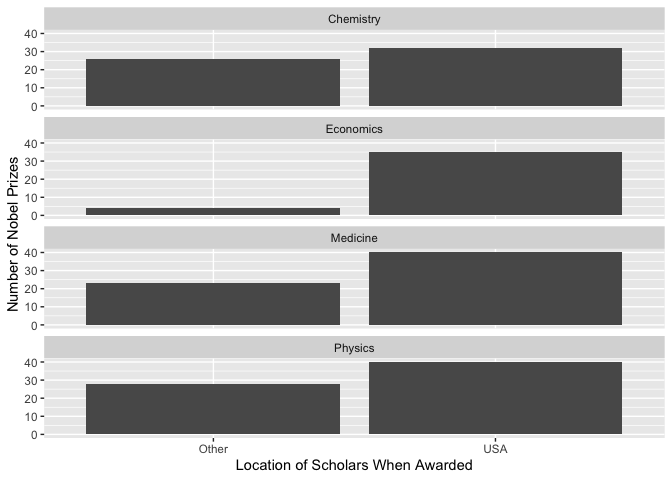
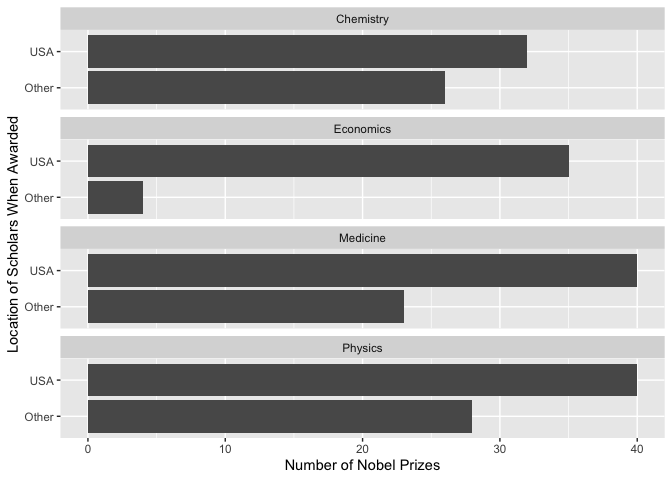
edited + finalized work

diff --git a/lab-03.md b/lab-03.md
@@ -35,12 +35,12 @@ nobel_living <- nobel_copy %>% filter(
   gender != "org"
   )
 
-View(nobel_living)
+view(nobel_living)
 ```
 
-Down to 228 observations after filtering for laureates who are still
-alive, have available information on country, and who are people (not
-organizations)
+The new dataset contains 228 observations after filtering for laureates
+who are still alive, have available information on ‘country’, and who
+are people (not organizations).
 
 ``` r
 nobel_living <- nobel_living %>%
@@ -62,25 +62,26 @@ ggplot(data = nobel_living_science, aes(x = country_us)) +
 labs(x = "Location of Scholars When Awarded",
        y = "Number of Nobel Prizes",
      ) +
-facet_wrap(~ category, nrow = 4)
+facet_wrap(~ category, nrow = 4) +
+  coord_flip()
 ```
 
 ![](lab-03_files/figure-gfm/bar-plot-1.png)<!-- -->
 
-The plots seem to support the claim in the Buzzfeed article. In each
-category, there is a higher number of Nobel prizes awarded to scholars
-in the US than in other countries. The difference is especially stark
-for prizes in economics.
+The plots support the claim in the Buzzfeed article. In each category,
+there is a higher number of Nobel prizes awarded to scholars in the US
+than in other countries. The difference is especially stark for prizes
+in economics.
 
 ### Exercise 4
 
 ``` r
-nobel_living_science_born_us <- nobel_living_science %>%
+nobel_living_science <- nobel_living_science %>%
   mutate(
     born_country_us = if_else(born_country == "USA", "USA", "Other")
   )
 
-nobel_living_science_born_us %>%
+nobel_living_science %>%
   count(born_country_us, sort = TRUE)
 ```
 
@@ -95,14 +96,15 @@ nobel_living_science_born_us %>%
 ### Exercise 5
 
 ``` r
-ggplot(data = nobel_living_science_born_us, aes(x = country_us,
+ggplot(data = nobel_living_science, aes(x = country_us,
                                                 fill = born_country_us)) +
   geom_bar() +
 labs(x = "Location of Scholars When Awarded",
        y = "Number of Nobel Prizes",
      fill = "Birth Country"
      ) +
-facet_wrap(~ category, nrow = 4) 
+facet_wrap(~ category, nrow = 4) +
+coord_flip()
 ```
 
 ![](lab-03_files/figure-gfm/bar-plot-2-1.png)<!-- -->
@@ -110,12 +112,12 @@ facet_wrap(~ category, nrow = 4)
 The plots again seem to support the claims in the the Buzzfeed article.
 Most of the US-based Nobel laureates were born in the US, but there are
 still sizable groups of Nobel laureates who were awarded in the US but
-not born in the US.
+were born in other countries.
 
 ### Exercise 6
 
 ``` r
-nobel_living_science_born_us %>%
+nobel_living_science %>%
   filter(country == "USA") %>%
   filter(born_country != "USA") %>%
   count(born_country, sort = TRUE)
